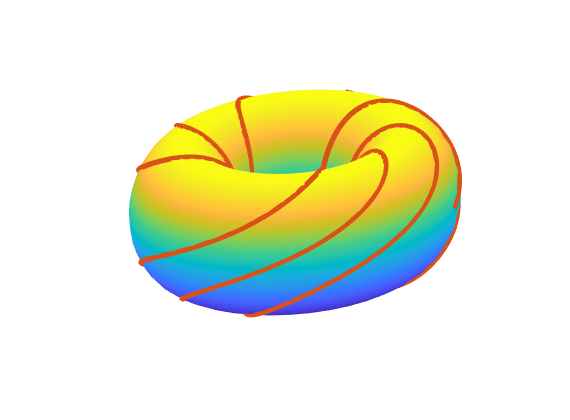
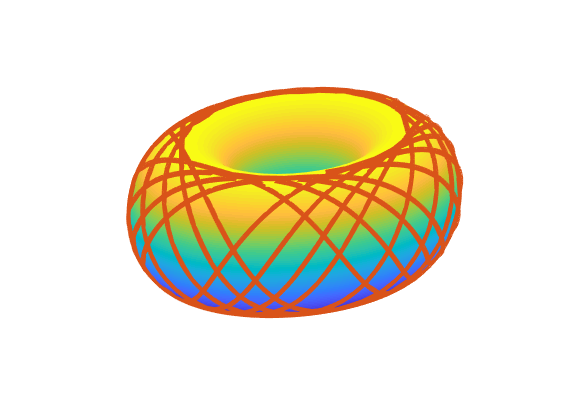
Fix typos

Changed region(s): [[0.2088, 0.1857, 0.8351, 0.7738]]

diff --git a/posts/12-28-19.html b/posts/12-28-19.html
@@ -30,11 +30,11 @@
 Suppose we have a torus \(\mathcal{T}\) paramaterized by
 
 \[
-F(\phi,\theta) = \begin{bmatrix}
+F(\theta,\phi) = \begin{bmatrix}
 \cos\theta(R+r\cos\phi) \\
 \sin\theta(R+r\cos\phi) \\
 r\cos\phi
-\end{bmatrix} \quad \phi, \theta \in [0, 2\pi],
+\end{bmatrix} \quad \theta, \phi \in [0, 2\pi],
 \]
 
 <div>
@@ -57,7 +57,7 @@ where \(R\) is the distance from the \(x\) axis to the circle and \(r\) is the r
 Let \(\gamma(t)\) be a geodesic on \(\mathcal{T}\). Then we can parameterize \(F\) to be
 
 \[
-\gamma(t) =F(\phi(t),\theta(t)) = \begin{bmatrix}
+\gamma(t) =F(\theta(t),\phi(t)) = \begin{bmatrix}
     \cos(\theta(t))(R+r\cos(\phi(t))) \\
     \sin(\theta(t))(R+r\cos(\phi(t))) \\
     r\sin(\phi(t)) \\
@@ -94,8 +94,8 @@ which is not obviously simple. The algebra needed to arrive at a useful simplifi
 The solutions to the above system are given by another system:
 \[
 	\begin{gather}
-	    \phi''=\frac{2r\sin(\phi)}{R+r\cos(\phi)}\phi'\theta' \\
-	    \theta'' = -\frac{1}{R}\sin(\phi)(R+r\cos(\phi))(\theta')^2.
+	    \theta''=\frac{2r\sin(\phi)}{R+r\cos(\phi)}\phi'\theta' \\
+	    \phi'' = -\frac{1}{r}\sin(\phi)(R+r\cos(\phi))(\theta')^2.
 	\end{gather}
 \]
 
@@ -104,44 +104,44 @@ Trying to solve this sytem by hand is difficult because not only are they nonlin
 We can transform this system of two second order equations into a system of four first order equations so that
 \[
 	\begin{gather*}
-	    z_1=\phi \\
-	    z_2=\phi' \\
-	    z_3=\theta \\
-	    z_4=\theta'
+	    z_1=\theta \\
+	    z_2=\theta' \\
+	    z_3=\phi \\
+	    z_4=\phi'
 	\end{gather*}
 \]
 and
 \[
 	\begin{align*}
 	    z_1' &= z_2 \\
-	    z_2' &= \frac{2r\sin(z_1)}{R+r\cos(z_1)}z_2z_4 \\
+	    z_2' &= \frac{2r\sin(z_3)}{R+r\cos(z_3)}z_2z_4 \\
 	    z_3' &= z_4 \\
-	    z_4' &= -\frac{1}{R}\sin(z_1)(R+r\cos(z_1))z_4^2
+	    z_4' &= -\frac{1}{r}\sin(z_3)(R+r\cos(z_3))z_4^2
 	\end{align*}
 \]
 
-Using MATLAB's ode45, we can generate geodesics by providing the initial conditions for \(\phi, \phi', \theta,\) and \(\theta'\).
+Using MATLAB's ode45, we can generate geodesics by providing the initial conditions for \(\theta, \theta', \phi,\) and \(\theta'\).
 
 <div class="img-container">
 	<div>
 		<figure style="display:inline-block">
 			<img src="../img/torus_phi.png" style="height:200px; width=auto;">
-			<figcaption>Geodesic generated by initial condition \([0, 1, 1, 0]\).</figcaption>
+			<figcaption>Geodesic generated by initial condition \([0, 0, 0, 1]\).</figcaption>
 		</figure>
 	</div>
 	<div>
 		<figure style="display:inline-block">
 			<img src="../img/torus_theta.png" style="height:200px; width=auto;">
-			<figcaption>Geodesic generated by initial condition \([0, 0, 1, 1]\).</figcaption>
+			<figcaption>Geodesic generated by initial condition \([0, 1, 0, 0]\).</figcaption>
 		</figure>
 	</div>
 </div>
 
-In the above images, an initial condition of \([a, b, c, d]\) means a point at position \((a,c)\) with velocity vector \((b,d)\). Here's another cool one generated by \([0, 1, 1, 1]\):
+In the above images, an initial condition of \([a, b, c, d]\) means a point at position \((a,c)\) with velocity vector \((b,d)\). Here's another cool one generated by \([0, 1, \frac{\pi}{2}, 0]\):
 
 <img src="../img/torus_longwind.png" class="center" style="height:200px; width=auto">
 
-Keep in mind that because we are using a numerical solver, we have to specify the span that we want \(t\) to run. In the first two images, it didn't matter so much what span we picked, as long as it was longer than \(2\pi\). This is because we were only using a velocity vector with one nonzero component. Whereas in the geodesic immediately we have chose a velocity vector that will cause \(\gamma\) to rotate along both axes.
+Keep in mind that because we are using a numerical solver, we have to specify the span that we want \(t\) to run. In the first two images, it didn't matter so much what span we picked, as long as it was longer than \(2\pi\). This is because we were only using a velocity vector with one nonzero component. Whereas in the geodesic immediately above we have chose a velocity vector that will cause \(\gamma\) to rotate along both axes.
 
 <br><br>
 
